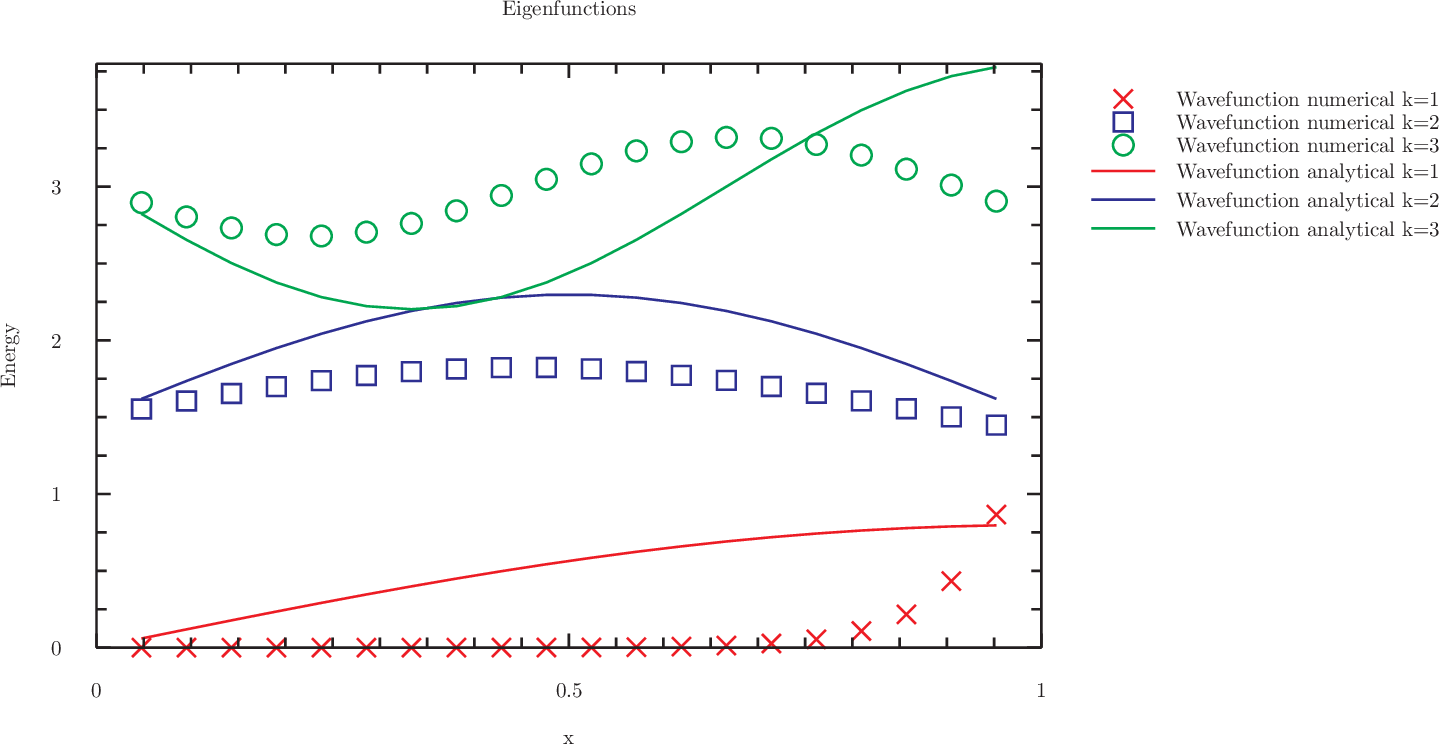
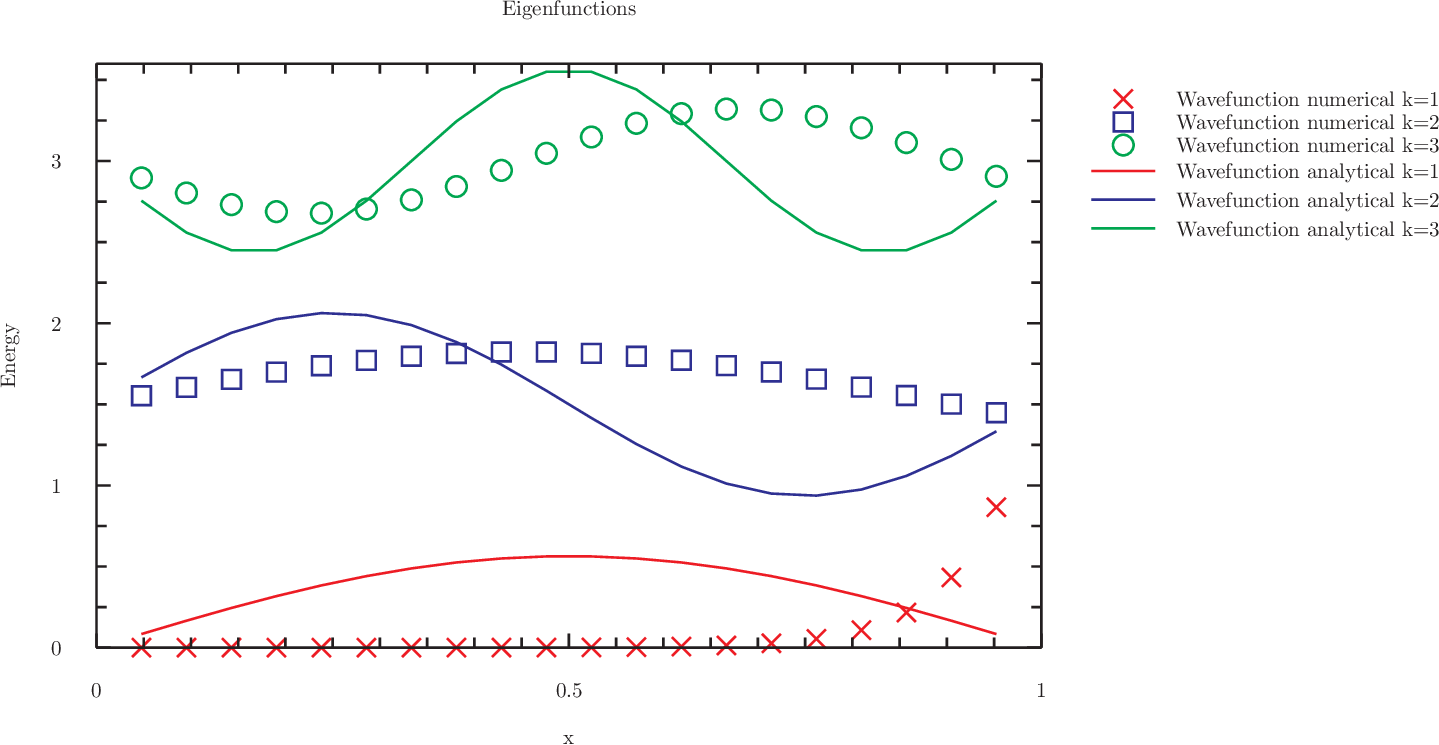
Initial commit

diff --git a/homework/MatrixDiagonalization/main.c b/homework/MatrixDiagonalization/main.c
@@ -159,7 +159,7 @@ printf("\n\n");
 printf("#index1: numerical vs analytical(Til plotning)\n");
  	for(int i=0;i<N;i++){
 	double k=(i+1.0)/(N+1);
-	printf("%6g %6g %6g %6g %6g %6g %6g\n",k, gsl_matrix_get(V_h,i,0), gsl_matrix_get(V_h,i,1)+1.5, gsl_matrix_get(V_h,i,2)+3, sqrt(2/M_PI)*sin(M_PI*k/2),sqrt(2/M_PI)*sin(M_PI*2*k/2)+1.5,-sqrt(2/M_PI)*sin(M_PI*3*k/2)+3);
+	printf("%6g %6g %6g %6g %6g %6g %6g\n",k, gsl_matrix_get(V_h,i,0), gsl_matrix_get(V_h,i,1)+1.5, gsl_matrix_get(V_h,i,2)+3, sqrt(1/M_PI)*sin(M_PI*k/1),sqrt(1/M_PI)*sin(M_PI*2*k/1)+1.5,-sqrt(1/M_PI)*sin(M_PI*3*k/1)+3);
 	}
 
 
